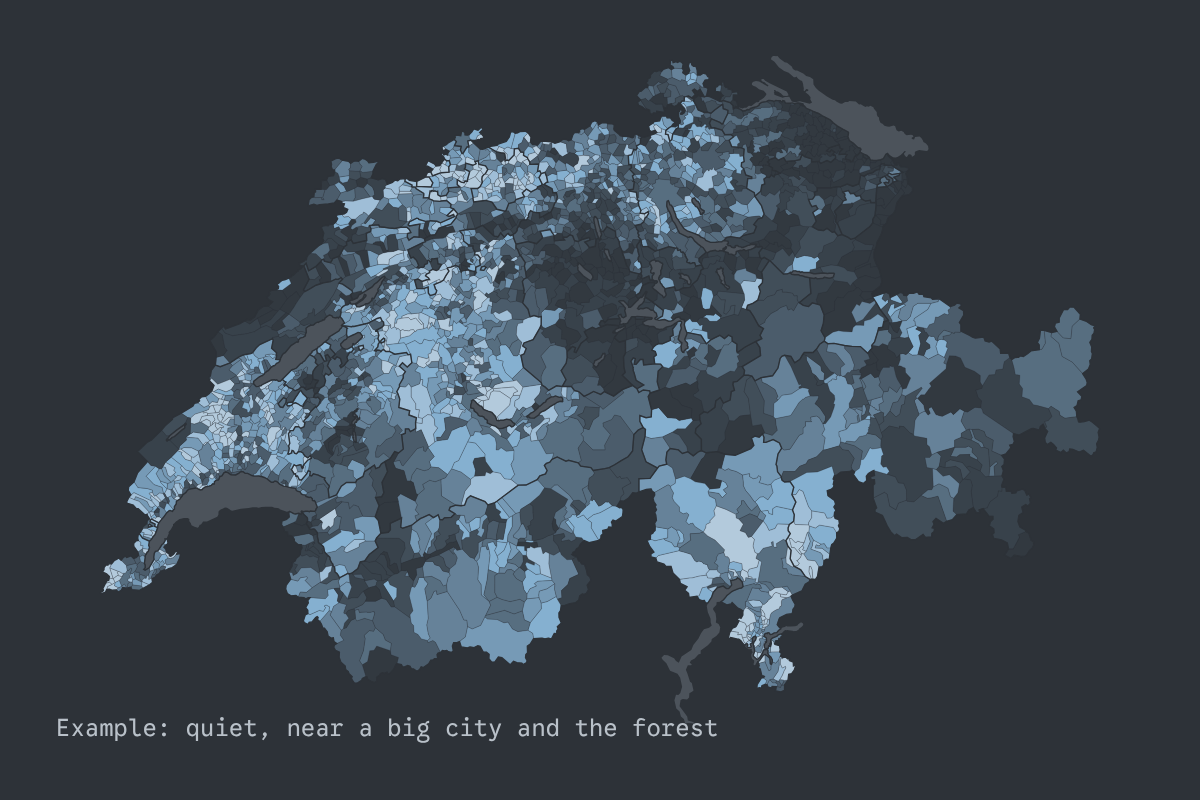
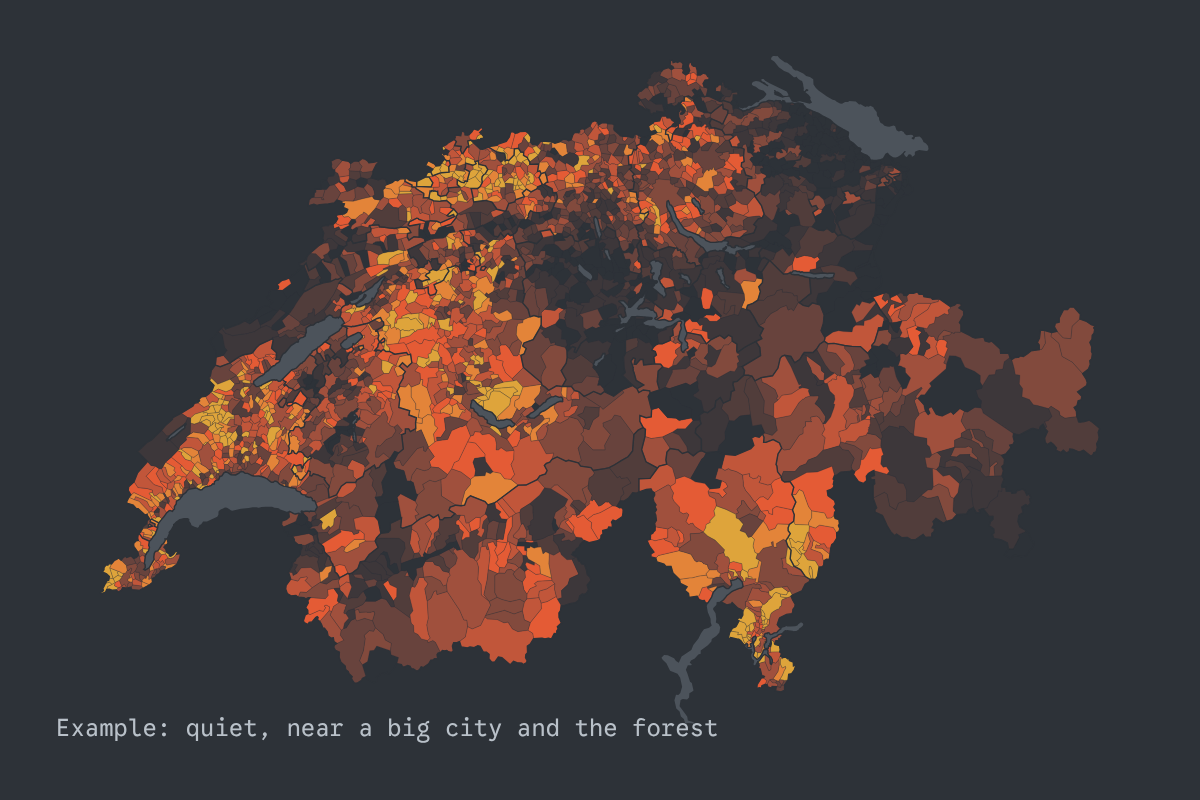
Publish from europes-divides@2feb753 (2026-11-21T19:42Z)

Changed region(s): [[0.0925, 0.0625, 0.925, 0.875], [0.7092, 0.2188, 0.74, 0.25]]

diff --git a/fit.css b/fit.css
@@ -266,6 +266,10 @@
   background: var(--paper); color: var(--ink); border: 1px solid var(--rule); box-shadow: 0 6px 24px color-mix(in srgb, var(--ink) 14%, transparent);
   font-family: var(--font-support); font-size: 0.8125rem; line-height: 1.5; display: grid; gap: 0.45rem; }
 .fit .fit-info__pop p { margin: 0; }
+/* on a phone the explanation sits in the flow, under the question, and pushes the answers down instead of covering them */
+@container fit (max-width: 640px) {
+  .fit .fit-info__pop { position: static; width: auto; box-shadow: none; background: color-mix(in srgb, var(--rule) 18%, var(--paper)); }
+}
 .fit .fit-info__pop b { font-weight: 500; }
 .fit .fit-q:focus { outline: none; }
 .fit .fit-progress { display: flex; align-items: center; gap: 0.75rem; font-family: var(--font-support); font-size: 0.8125rem; color: var(--muted); }
@@ -394,17 +398,28 @@
 .fit .fit-outline { fill: none; stroke: var(--ink); stroke-width: var(--fit-ow, 0.9px); stroke-opacity: 0.8; stroke-linejoin: round; pointer-events: none; }
 .fit .fit-map .focus-ring { stroke-width: var(--fit-pw, 1.5px); stroke-linejoin: round; }
 .fit .fit-map .fit-pin { fill: none; stroke: var(--red); stroke-width: var(--fit-pw, 1.5px); stroke-linejoin: round; pointer-events: none; }
-/* score classes: paper to blue, the best fits blue mixed with ink */
-.fit .fit-s0 { --c: color-mix(in oklab, var(--blue) 6%, var(--paper)); }
-.fit .fit-s1 { --c: color-mix(in oklab, var(--blue) 14%, var(--paper)); }
-.fit .fit-s2 { --c: color-mix(in oklab, var(--blue) 24%, var(--paper)); }
-.fit .fit-s3 { --c: color-mix(in oklab, var(--blue) 36%, var(--paper)); }
-.fit .fit-s4 { --c: color-mix(in oklab, var(--blue) 50%, var(--paper)); }
-.fit .fit-s5 { --c: color-mix(in oklab, var(--blue) 66%, var(--paper)); }
-.fit .fit-s6 { --c: color-mix(in oklab, var(--blue) 84%, var(--paper)); }
-.fit .fit-s7 { --c: var(--blue); }
-.fit .fit-s8 { --c: color-mix(in oklab, var(--blue) 72%, var(--ink)); }
-.fit .fit-s9 { --c: color-mix(in oklab, var(--blue) 50%, var(--ink)); }
+/* the kept commune stays red on a red map: a paper casing under the red line */
+.fit .fit-map .fit-pin-halo { fill: none; stroke: var(--paper); stroke-width: calc(var(--fit-pw, 1.5px) * 2.8); stroke-linejoin: round; pointer-events: none; }
+/* score classes: paper to red, the best fits red mixed with ink; the same ramp as the maps of The Far Right in Switzerland */
+.fit .fit-s0 { --c: var(--paper); }
+.fit .fit-s1 { --c: color-mix(in oklab, var(--red) 9%, var(--paper)); }
+.fit .fit-s2 { --c: color-mix(in oklab, var(--red) 20%, var(--paper)); }
+.fit .fit-s3 { --c: color-mix(in oklab, var(--red) 33%, var(--paper)); }
+.fit .fit-s4 { --c: color-mix(in oklab, var(--red) 48%, var(--paper)); }
+.fit .fit-s5 { --c: color-mix(in oklab, var(--red) 64%, var(--paper)); }
+.fit .fit-s6 { --c: color-mix(in oklab, var(--red) 82%, var(--paper)); }
+.fit .fit-s7 { --c: var(--red); }
+.fit .fit-s8 { --c: color-mix(in oklab, var(--red) 62%, var(--ink)); }
+.fit .fit-s9 { --c: color-mix(in oklab, var(--red) 34%, var(--ink)); }
+/* dark theme: the two strongest shades lean to the yellow, so lightness keeps rising class by class
+   (mixed with the light ink they faded to pink and read as less) */
+@media (prefers-color-scheme: dark) {
+  :root:not([data-theme="light"]) .fit .fit-s8 { --c: color-mix(in oklab, var(--red) 60%, var(--yellow, var(--red))); }
+  :root:not([data-theme="light"]) .fit .fit-s9 { --c: color-mix(in oklab, var(--red) 25%, var(--yellow, var(--red))); }
+}
+:root[data-theme="dark"] .fit .fit-s8 { --c: color-mix(in oklab, var(--red) 60%, var(--yellow, var(--red))); }
+:root[data-theme="dark"] .fit .fit-s9 { --c: color-mix(in oklab, var(--red) 25%, var(--yellow, var(--red))); }
+.fit .fit-town.fit-s0 { stroke: var(--rule); }
 .fit .fit-sx { --c: color-mix(in srgb, var(--rule) 70%, var(--paper)); }
 .fit .fit-ramp { display: flex; flex-wrap: nowrap; align-items: center; gap: 0.3rem; max-width: 100%; font-family: var(--font-support);
   font-size: 0.8125rem; color: var(--muted); font-variant-numeric: tabular-nums; }

diff --git a/fit.js b/fit.js
@@ -120,6 +120,19 @@
     run();
     return () => { last = -1; run(); };
   }
+  // the host page's fixed or sticky header covers the top of the window: how far down it reaches (data-top-offset overrides)
+  function coveredTop() {
+    const set = Number(root.dataset.topOffset);
+    if (root.dataset.topOffset != null && Number.isFinite(set)) return set;
+    let n = document.elementFromPoint(Math.round(window.innerWidth / 2), 2), bottom = 0;
+    while (n && n !== document.body && n !== document.documentElement) {
+      if (root.contains(n)) break;
+      const pos = getComputedStyle(n).position;
+      if (pos === 'fixed' || pos === 'sticky') { bottom = Math.max(0, n.getBoundingClientRect().bottom); break; }
+      n = n.parentElement;
+    }
+    return bottom;
+  }
   function tooltip(container) {
     const tip = document.createElement('div');
     tip.className = 'tooltip';
@@ -134,7 +147,8 @@
         let left = x + 14;
         if (left + tw > cw) left = Math.max(0, x - tw - 14);
         let top = y - th - 12;
-        if (top < 0) top = y + 16;
+        // above the pointer only if it fits inside the box and below the host's header; otherwise below the pointer
+        if (top < 0 || container.getBoundingClientRect().top + top < coveredTop() + 8) top = y + 16;
         tip.style.left = left + 'px';
         tip.style.top = top + 'px';
       },
@@ -364,6 +378,14 @@
     el.addEventListener('focusin', (ev) => { if (ev.target.closest('.fit-info')) openInfo(true); });
     el.addEventListener('focusout', (ev) => { if (ev.target.closest('.fit-info') && !kept) openInfo(false); });
     el.addEventListener('keydown', (ev) => { if (ev.key === 'Escape' && pop() && !pop().hidden) { kept = false; openInfo(false); } });
+    // a tap or click outside the question closes it (taps on the page margin fire no click, so listen for pointerdown);
+    // inside the question the click handler below closes it, after the tap has found its target: on a phone the
+    // explanation sits in the flow, and closing it on pointerdown would move the answers away under the finger
+    document.addEventListener('pointerdown', (ev) => {
+      const p = pop();
+      if (!p || p.hidden || el.contains(ev.target)) return;
+      kept = false; openInfo(false);
+    }, true);
     el.addEventListener('click', (ev) => {
       const b = ev.target.closest('button');
       if (b && b.classList.contains('fit-info')) { kept = !kept || pop().hidden; openInfo(kept); return; }
@@ -498,7 +520,7 @@
     g.append('path').attr('class', 'fit-cantonlines').attr('d', path(GEO.cantonLines));
     g.append('path').attr('class', 'fit-outline').attr('d', path(GEO.outline));
     const hl = g.append('path').attr('class', 'focus-ring');
-    const pin = g.append('path').attr('class', 'fit-pin');
+    const pin = g.append('g').selectAll('path').data(['fit-pin-halo', 'fit-pin']).join('path').attr('class', (d) => d);   // casing, then the red line
     // line widths in map units, so that they grow more slowly than the zoom: commune borders, canton lines, the border of
     // Switzerland, and the outline of the hovered or kept commune (red), which stays a little wider than all of them
     const outline = (k) => {
@@ -648,7 +670,8 @@
       const t = box.querySelector('.tooltip'), r = b.getBoundingClientRect(), bx = box.getBoundingClientRect();
       const name = b.querySelector('.fit-top__name').getBoundingClientRect();
       const left = Math.min(name.right - bx.left + 24, bx.width - t.offsetWidth);
-      const top = Math.max(0, Math.min(r.top - bx.top + r.height / 2 - t.offsetHeight / 2, box.offsetHeight - t.offsetHeight));
+      const below = coveredTop() + 8 - bx.top;   // the first position (in the box) not under the host's header
+      const top = Math.max(0, below, Math.min(r.top - bx.top + r.height / 2 - t.offsetHeight / 2, box.offsetHeight - t.offsetHeight));
       t.style.left = Math.max(0, left) + 'px';
       t.style.top = top + 'px';
     };

diff --git a/embed-example.html b/embed-example.html
@@ -14,7 +14,9 @@
   a { text-decoration: underline wavy; }
   button, select, input { font-family: Georgia, serif; color: green; background: #ffe; border: 2px solid green; }
   ul, ol { list-style: square; padding-left: 3em; }
-  .site-header { padding: 16px 24px; border-bottom: 1px solid var(--rule); font-family: Helvetica, Arial, sans-serif; }
+  .site-header { position: fixed; top: 0; left: 0; right: 0; z-index: 50; height: 56px; box-sizing: border-box; padding: 16px 24px;
+    border-bottom: 1px solid var(--rule); background: var(--paper); font-family: Helvetica, Arial, sans-serif; }
+  body { padding-top: 56px; }
   .content { max-width: 720px; margin: 0 auto; padding: 0 16px 64px; }
 </style>
 <link rel="stylesheet" href="fit.css">
